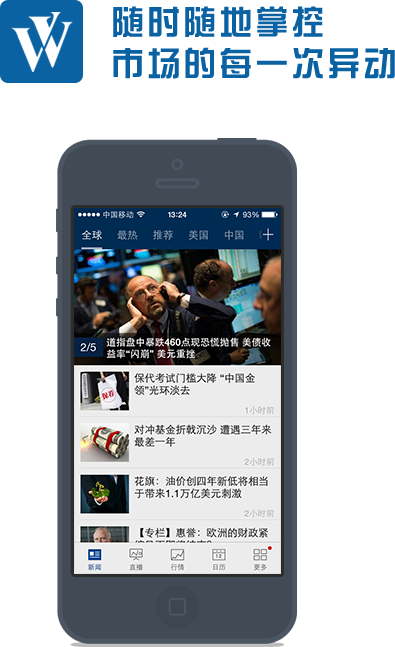
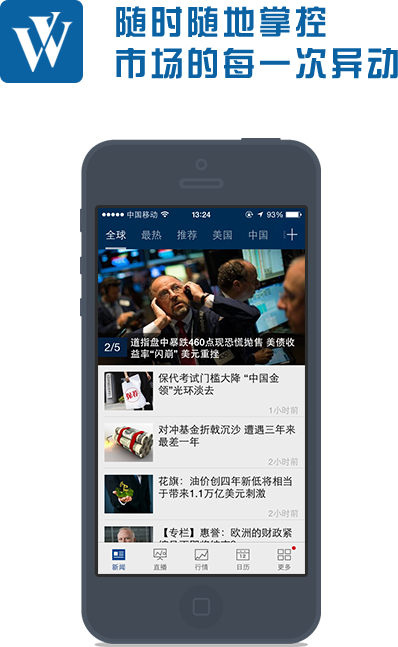
更改背景图

diff --git a/activities/08/index.html b/activities/08/index.html
@@ -53,7 +53,7 @@
         <img src="img/arrow_white.png" data-action="moveout" class="control"></img>
     </div>
     <div id="bg5" class="bg">
-        <img src="img/bg_5.png" alt="" class="center" width="197.5" height="323.5"
+        <img src="img/bg_5.png" alt="" class="center" width="199" height="323.5"
         tyle="margin-top: 30px;">
     <div class="toolbar">
             <a href="http://wallstreetcn.com/downloadapp.html" target="_blank" class="btn left">
@@ -94,8 +94,7 @@
                   "img_height": "640",
                   "link": 'http://activity.wallstreetcn.com/activities/08/',
                   "title": "昨天市场剧烈波动：你错过的发财机会",
-                  "desc": "
-                  全球市场动荡、全球股市大修正，恐慌情绪持续蔓延……投资者兴奋地癫狂了！"
+                  "desc": "全球市场动荡、全球股市大修正，恐慌情绪持续蔓延……投资者兴奋地癫狂了！"
               }, function (res) {
                 
               })
@@ -108,9 +107,8 @@
                   "img_width": "640",
                   "img_height": "640",
                   "link": 'http://activity.wallstreetcn.com/activities/08/',
-                  "desc": "昨天市场剧烈波动：你错过的发财机会",
-                  "title": "
-                  全球市场动荡、全球股市大修正，恐慌情绪持续蔓延……投资者兴奋地癫狂了！"
+                  "desc": "全球市场动荡、全球股市大修正，恐慌情绪持续蔓延……投资者兴奋地癫狂了！",
+                  "title": "昨天市场剧烈波动：你错过的发财机会"
               }, function (res) {
                  
               });
